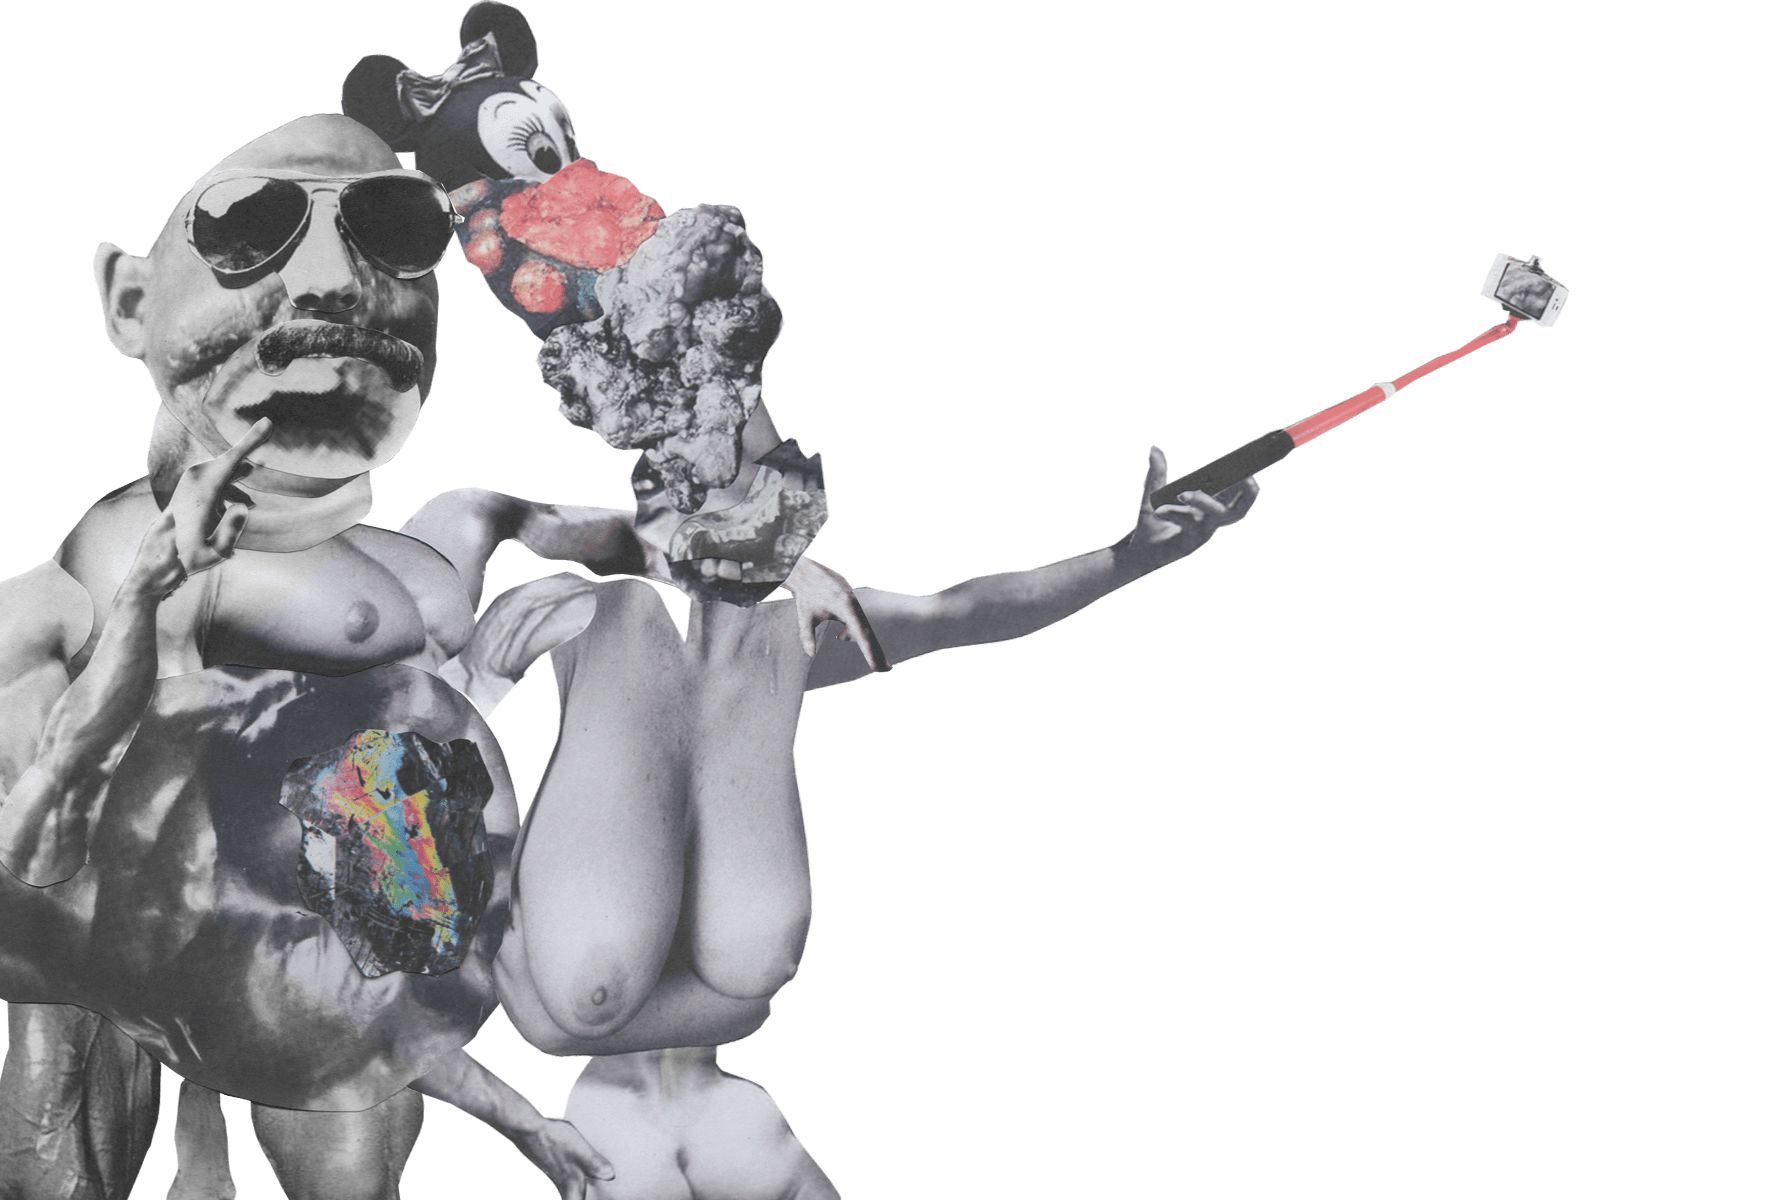
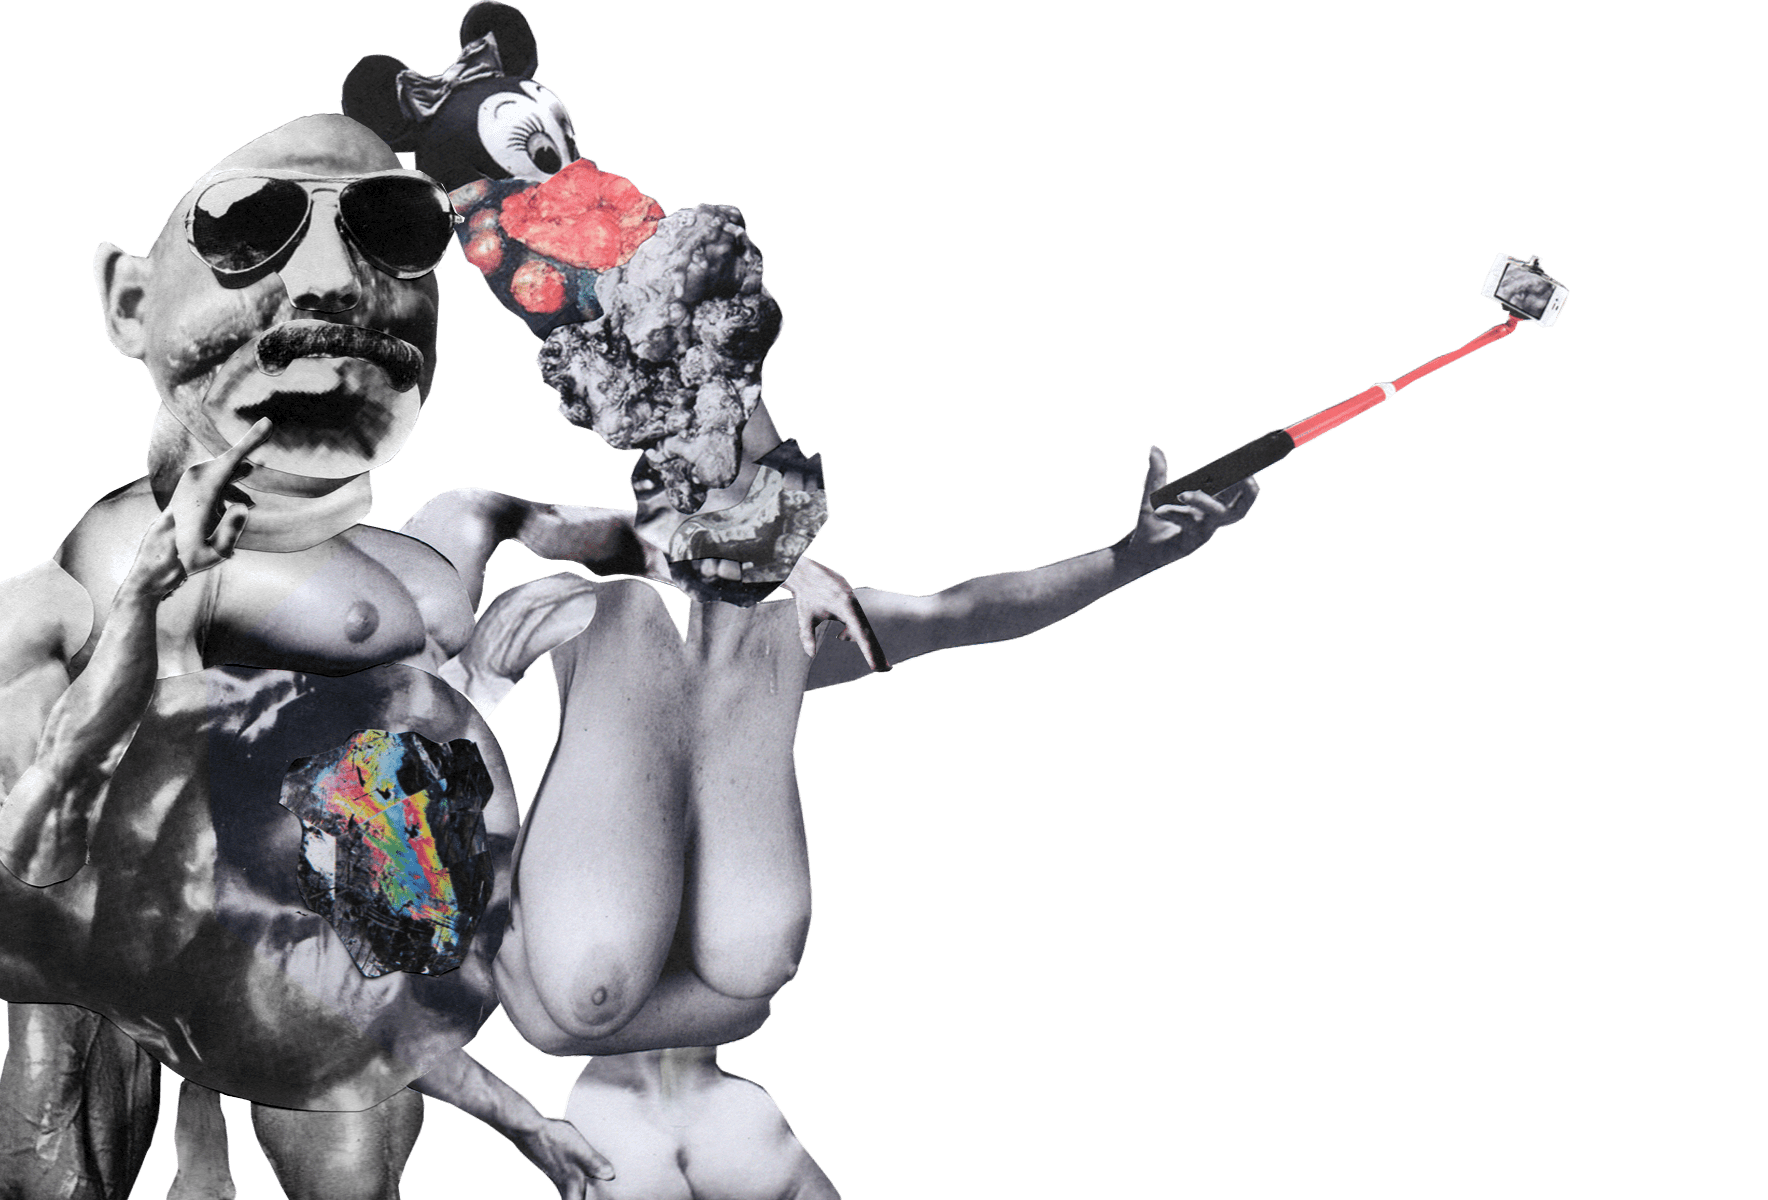
image contrast

diff --git a/src/pages/About/index.js b/src/pages/About/index.js
@@ -29,7 +29,7 @@ class BabyJanes extends Component {
           />{" "}
         </MediaQuery>
         <MediaQuery maxWidth={600}>
-          <HomeButton color="rgb(248,39,127)" top="167%" left="11%" />
+          <HomeButton color="rgb(248,39,127)" top="177%" left="11%" />
         </MediaQuery>
 
         <MediaQuery maxWidth={600}>
@@ -50,7 +50,7 @@ class BabyJanes extends Component {
           <BackToTop top="223%" color="rgb(248,39,127)" left="10%" />{" "}
         </MediaQuery>
         <MediaQuery maxWidth={600}>
-          <BackToTop top="164%" color="rgb(248,39,127)" left="11%" />
+          <BackToTop top="174%" color="rgb(248,39,127)" left="11%" />
         </MediaQuery>
       </div>
     );

diff --git a/src/Components/HomeImages/index.js b/src/Components/HomeImages/index.js
@@ -8,7 +8,7 @@ import phormHomeImg from "./phormHome.jpg";
 // import trumpinHomeImg from './trumpinHome.png';
 import babyJanesHomeImg from "./babyJanesHome.jpg";
 import warMachineHomeImg from "./warMachineHome.jpg";
-import lasVaguenessHomeImg from "./lasVaguenessHome.png";
+// import lasVaguenessHomeImg from "./lasVaguenessHome.png";
 import nuclearosisHomeImg from "./nuclearosisHome.jpg";
 import blueStreakHomeImg from "./blueStreakHome.jpg";
 import aboutHomeImg from "./aboutHome.png";
